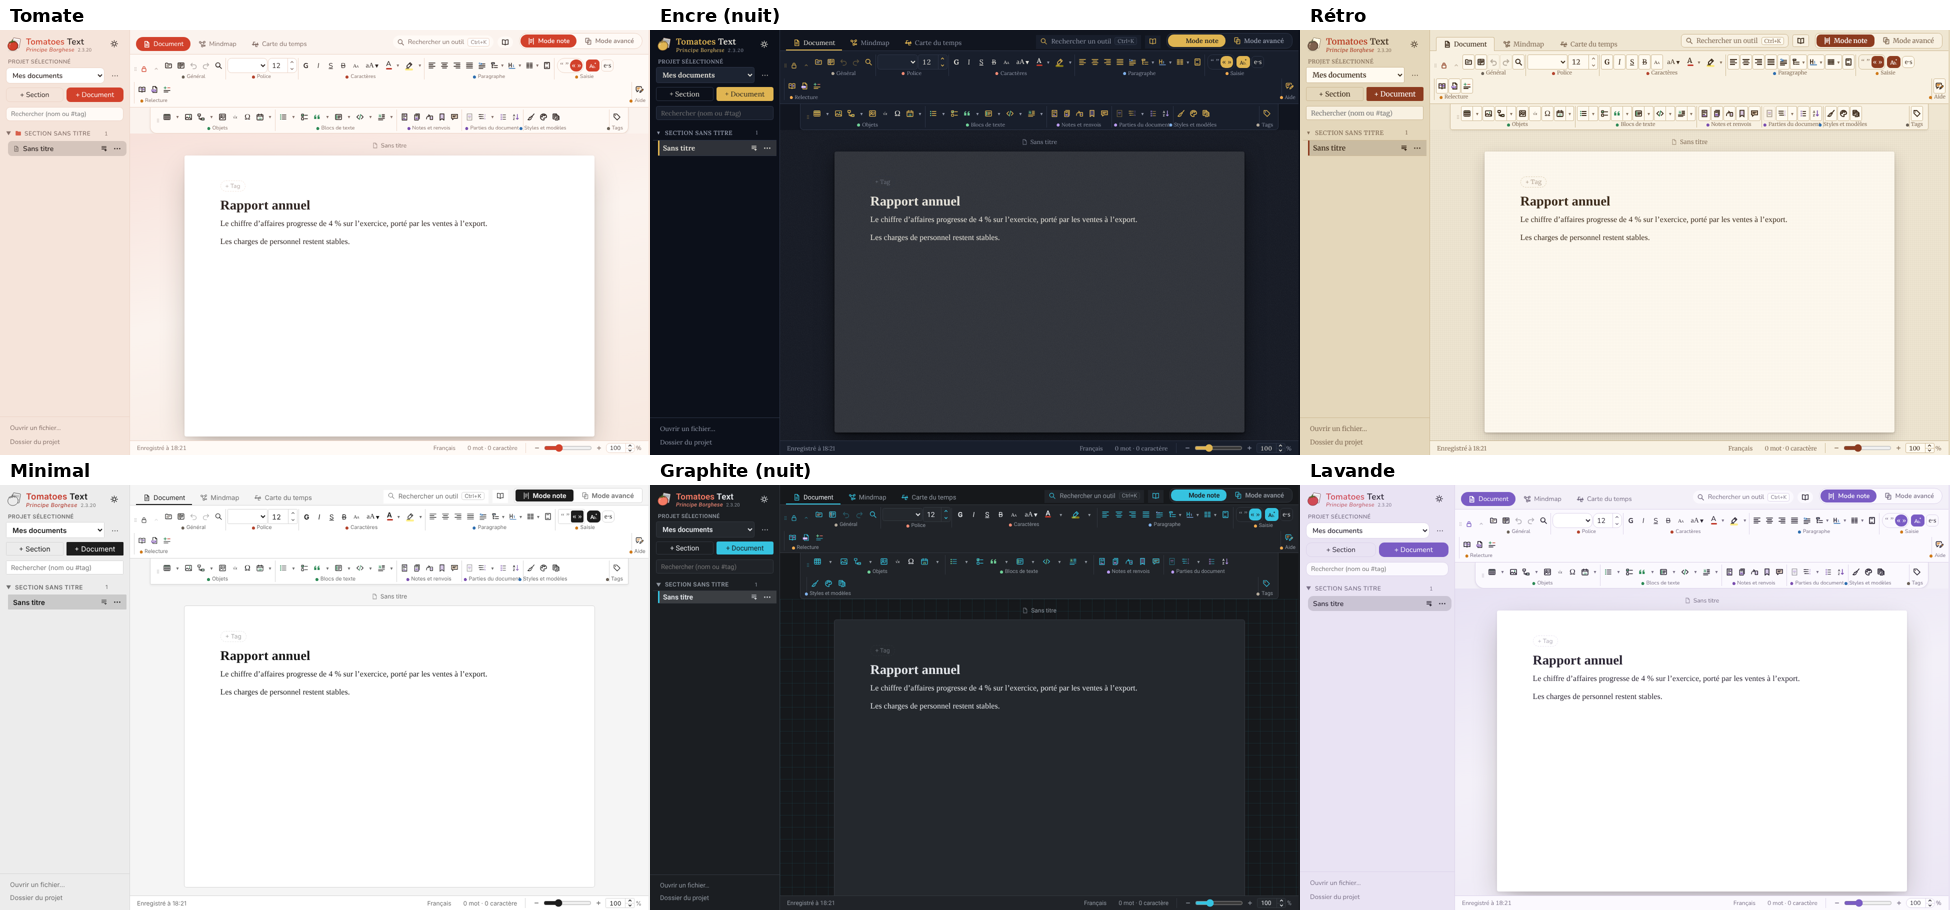
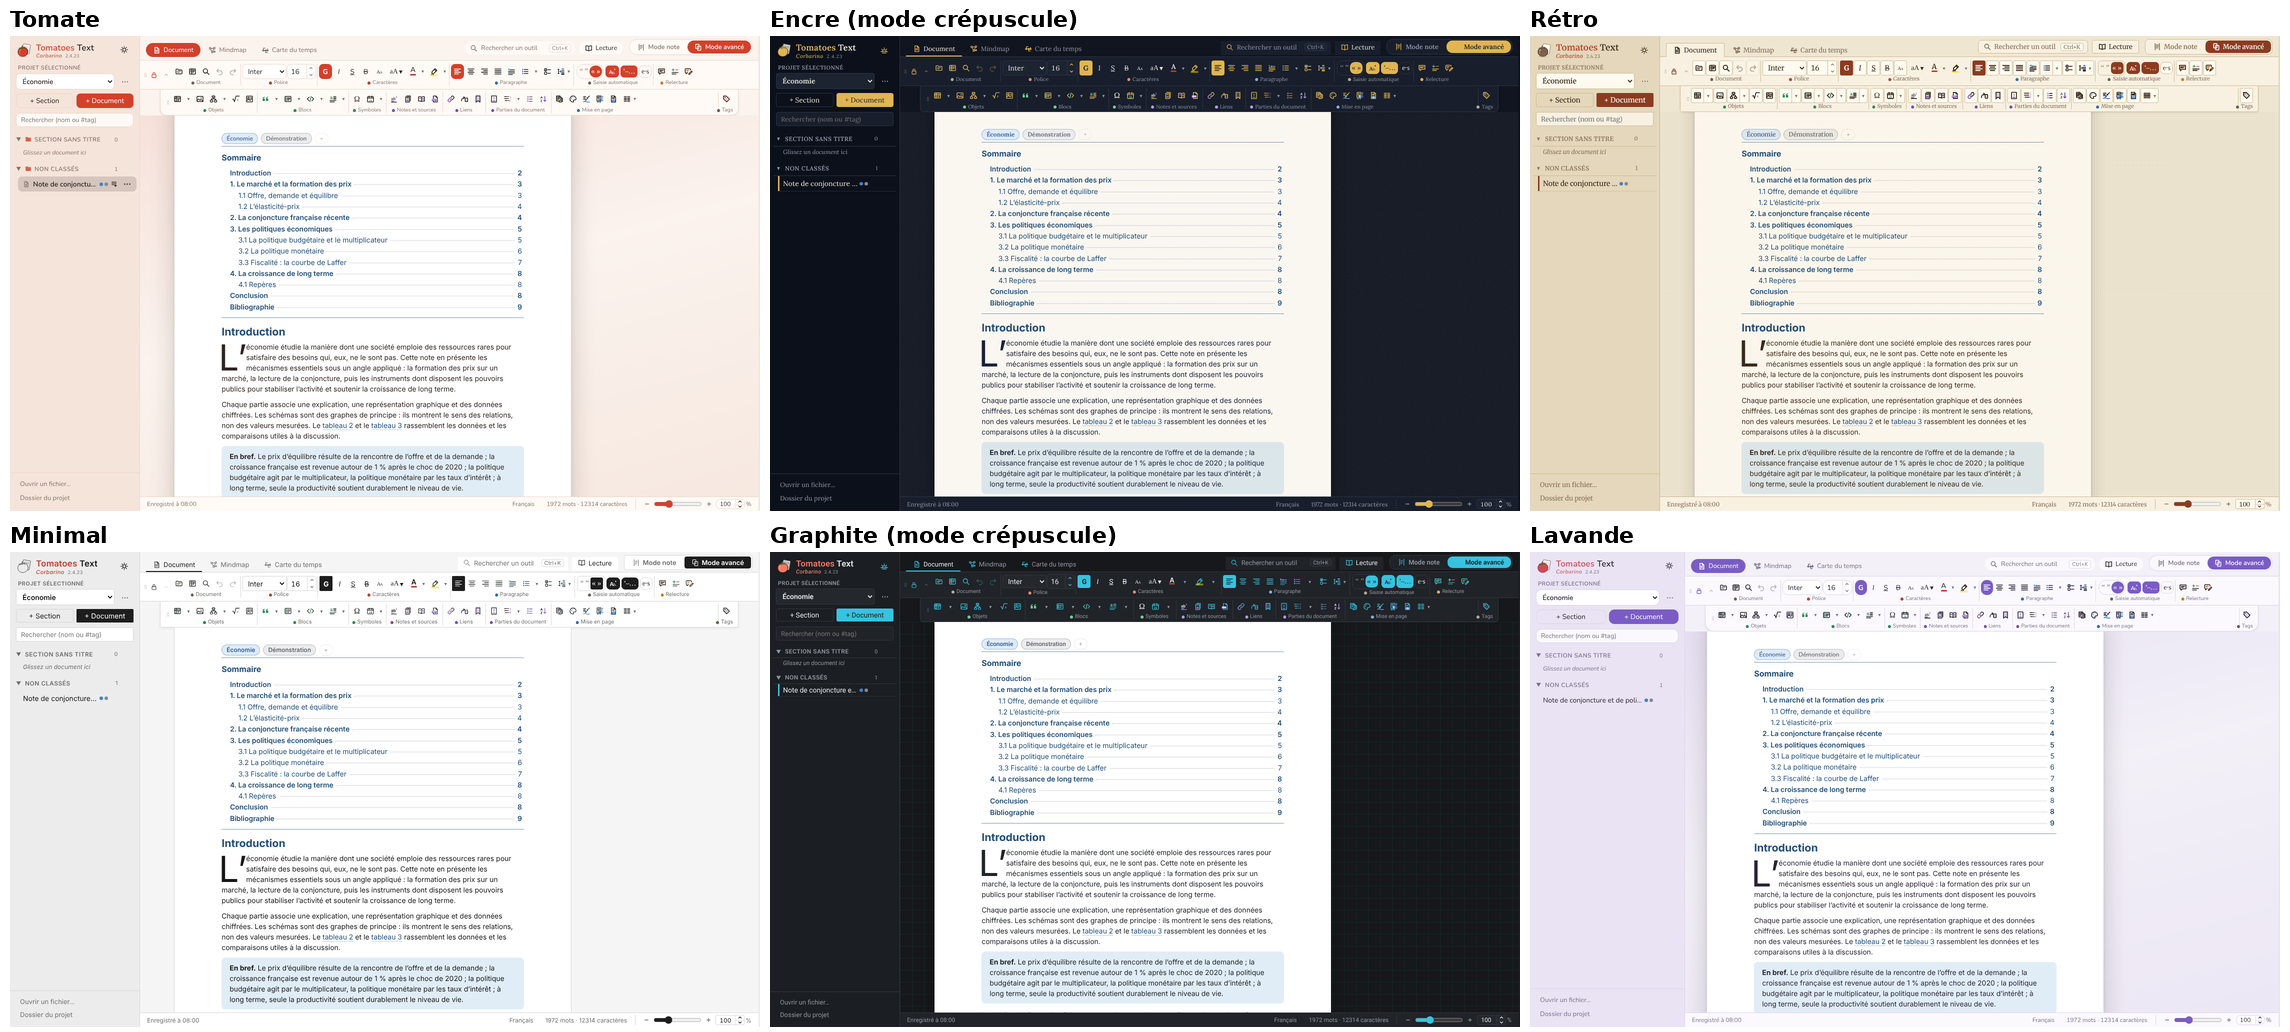
README : captures de la version 2.4.23
Claude-Session: https://claude.ai/code/session_01PjsgQxA7D4thCe44sf56tm

diff --git a/README.md b/README.md
@@ -10,7 +10,7 @@
   · <a href="CHANGELOG.md">Historique des versions</a>
 </p>
 
-![Tomatoes Text : un document en mode avancé](docs/captures/document.png)
+![Tomatoes Text : un document en mode avancé, affiché en double page](docs/captures/double-page.png)
 
 Tomatoes Text réunit la prise de notes et la rédaction de documents longs dans un même outil. Les notes sont
 classées en projets et reliées entre elles ; le même texte peut ensuite être mis en page, paginé et exporté
@@ -27,6 +27,8 @@ ligne nécessaire.
 - Typographie française automatique : majuscule en début de phrase, guillemets, ordinaux (19ᵉ, 1ᵉʳ), espaces
   insécables, point médian.
 - Mini-barre de mise en forme sur la sélection, palette de commandes (Ctrl+K), raccourcis personnalisables.
+
+![Schémas, graphiques et titres numérotés dans une page](docs/captures/schemas-et-graphiques.png)
 
 **Organisation**
 - Projets et sections dans le panneau latéral, tags, recherche.
